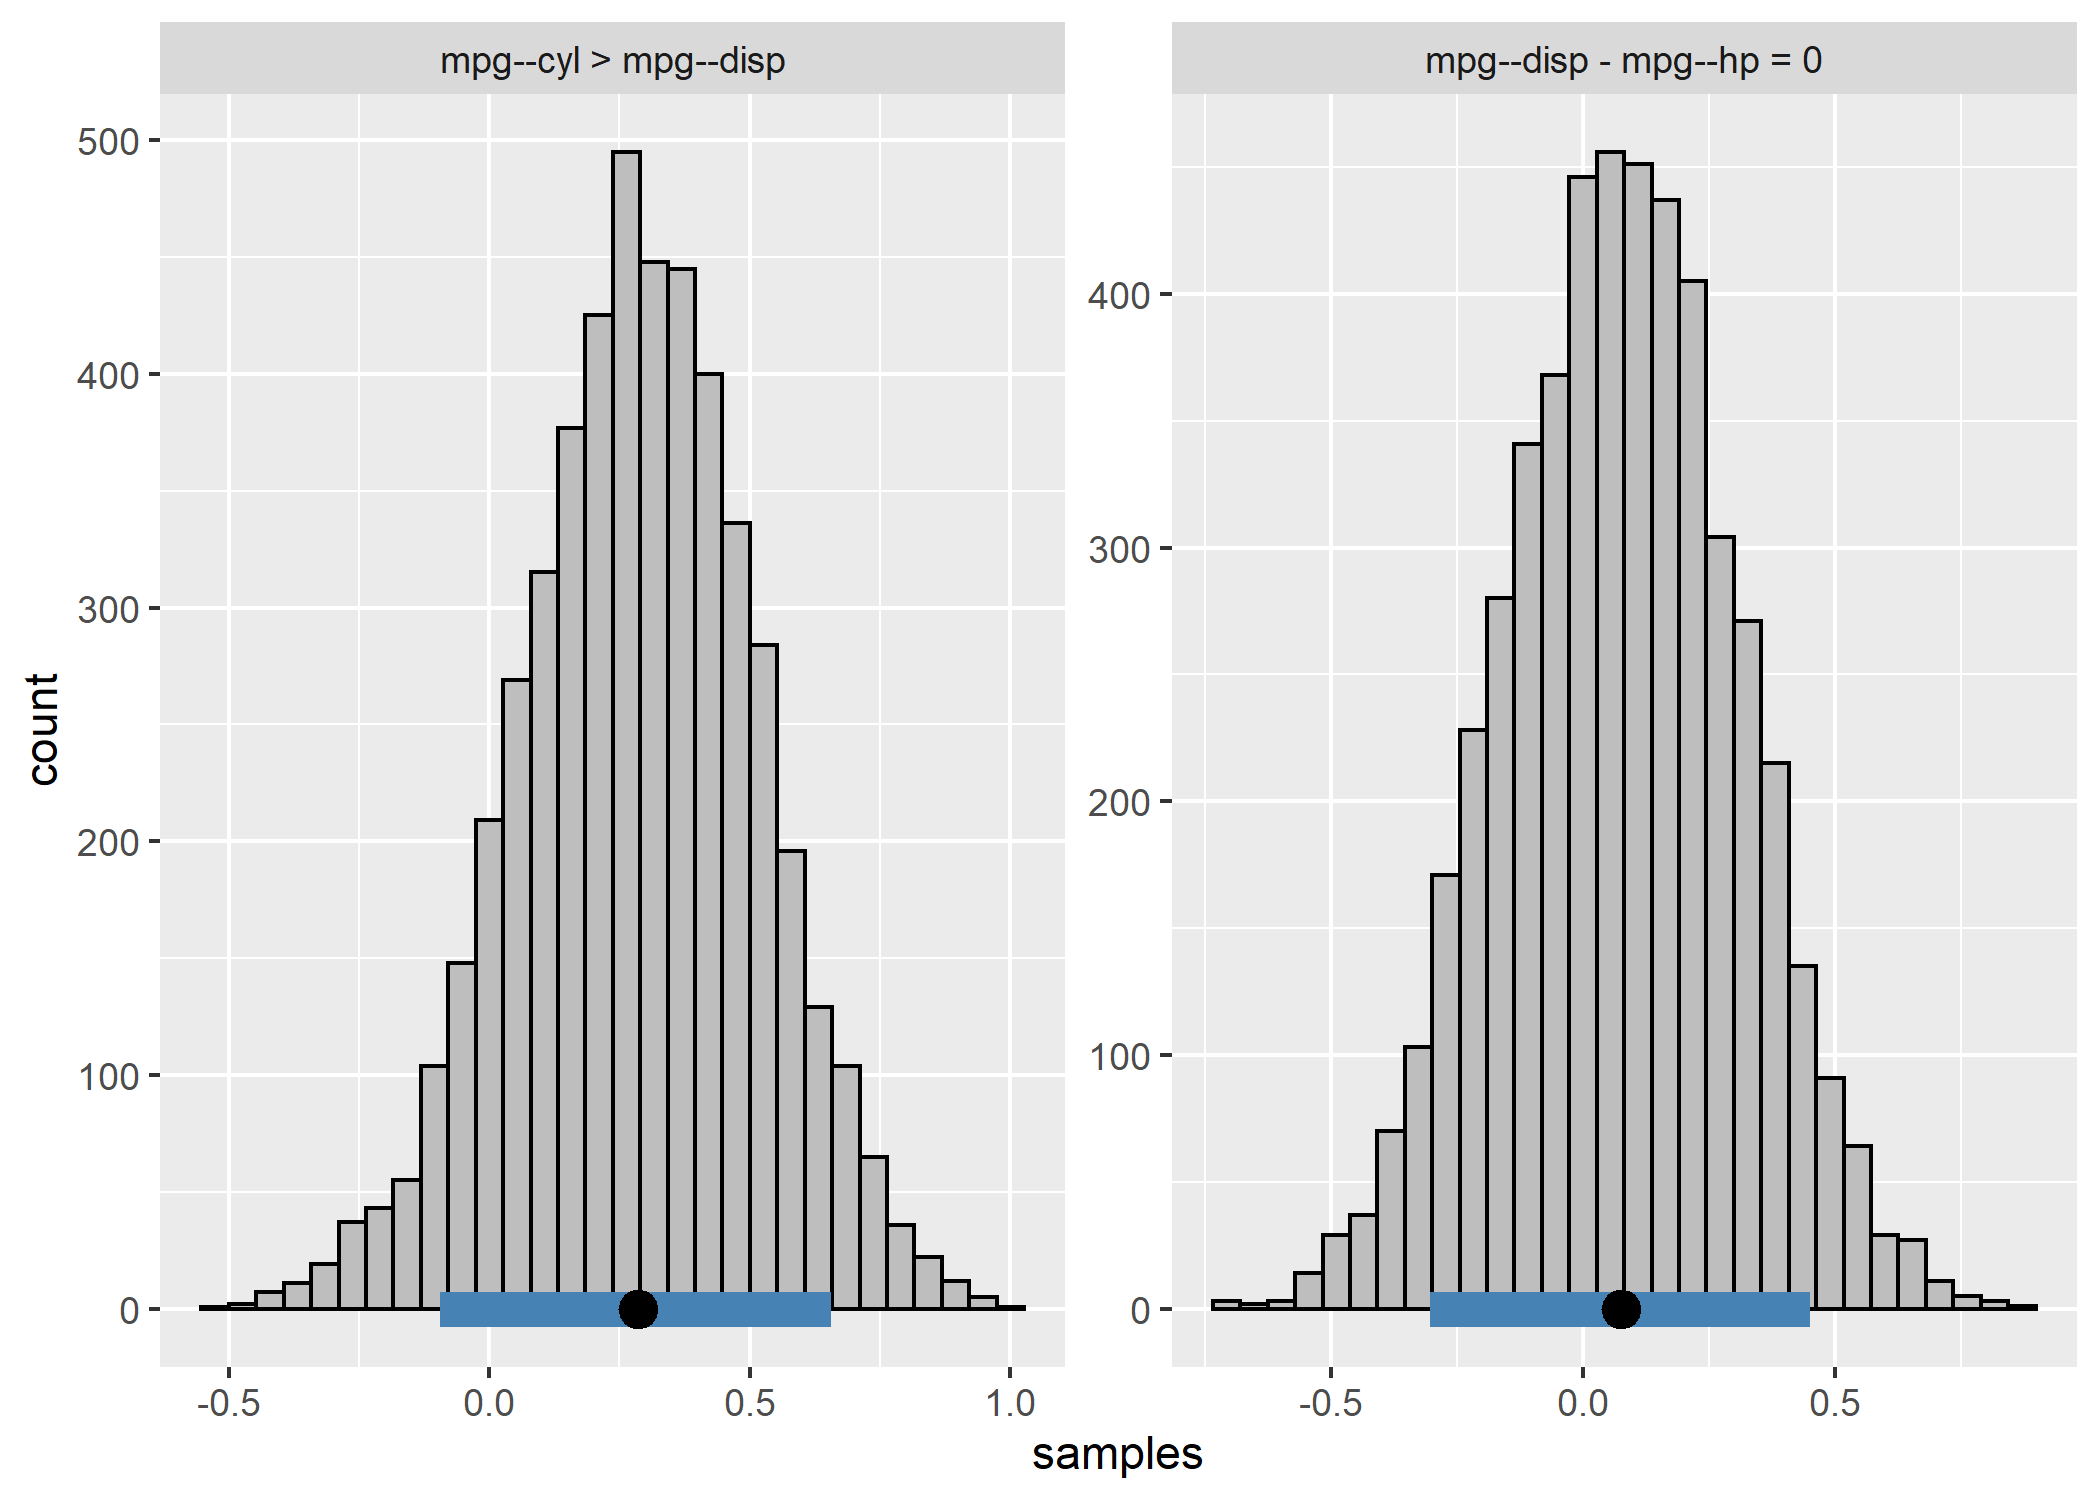
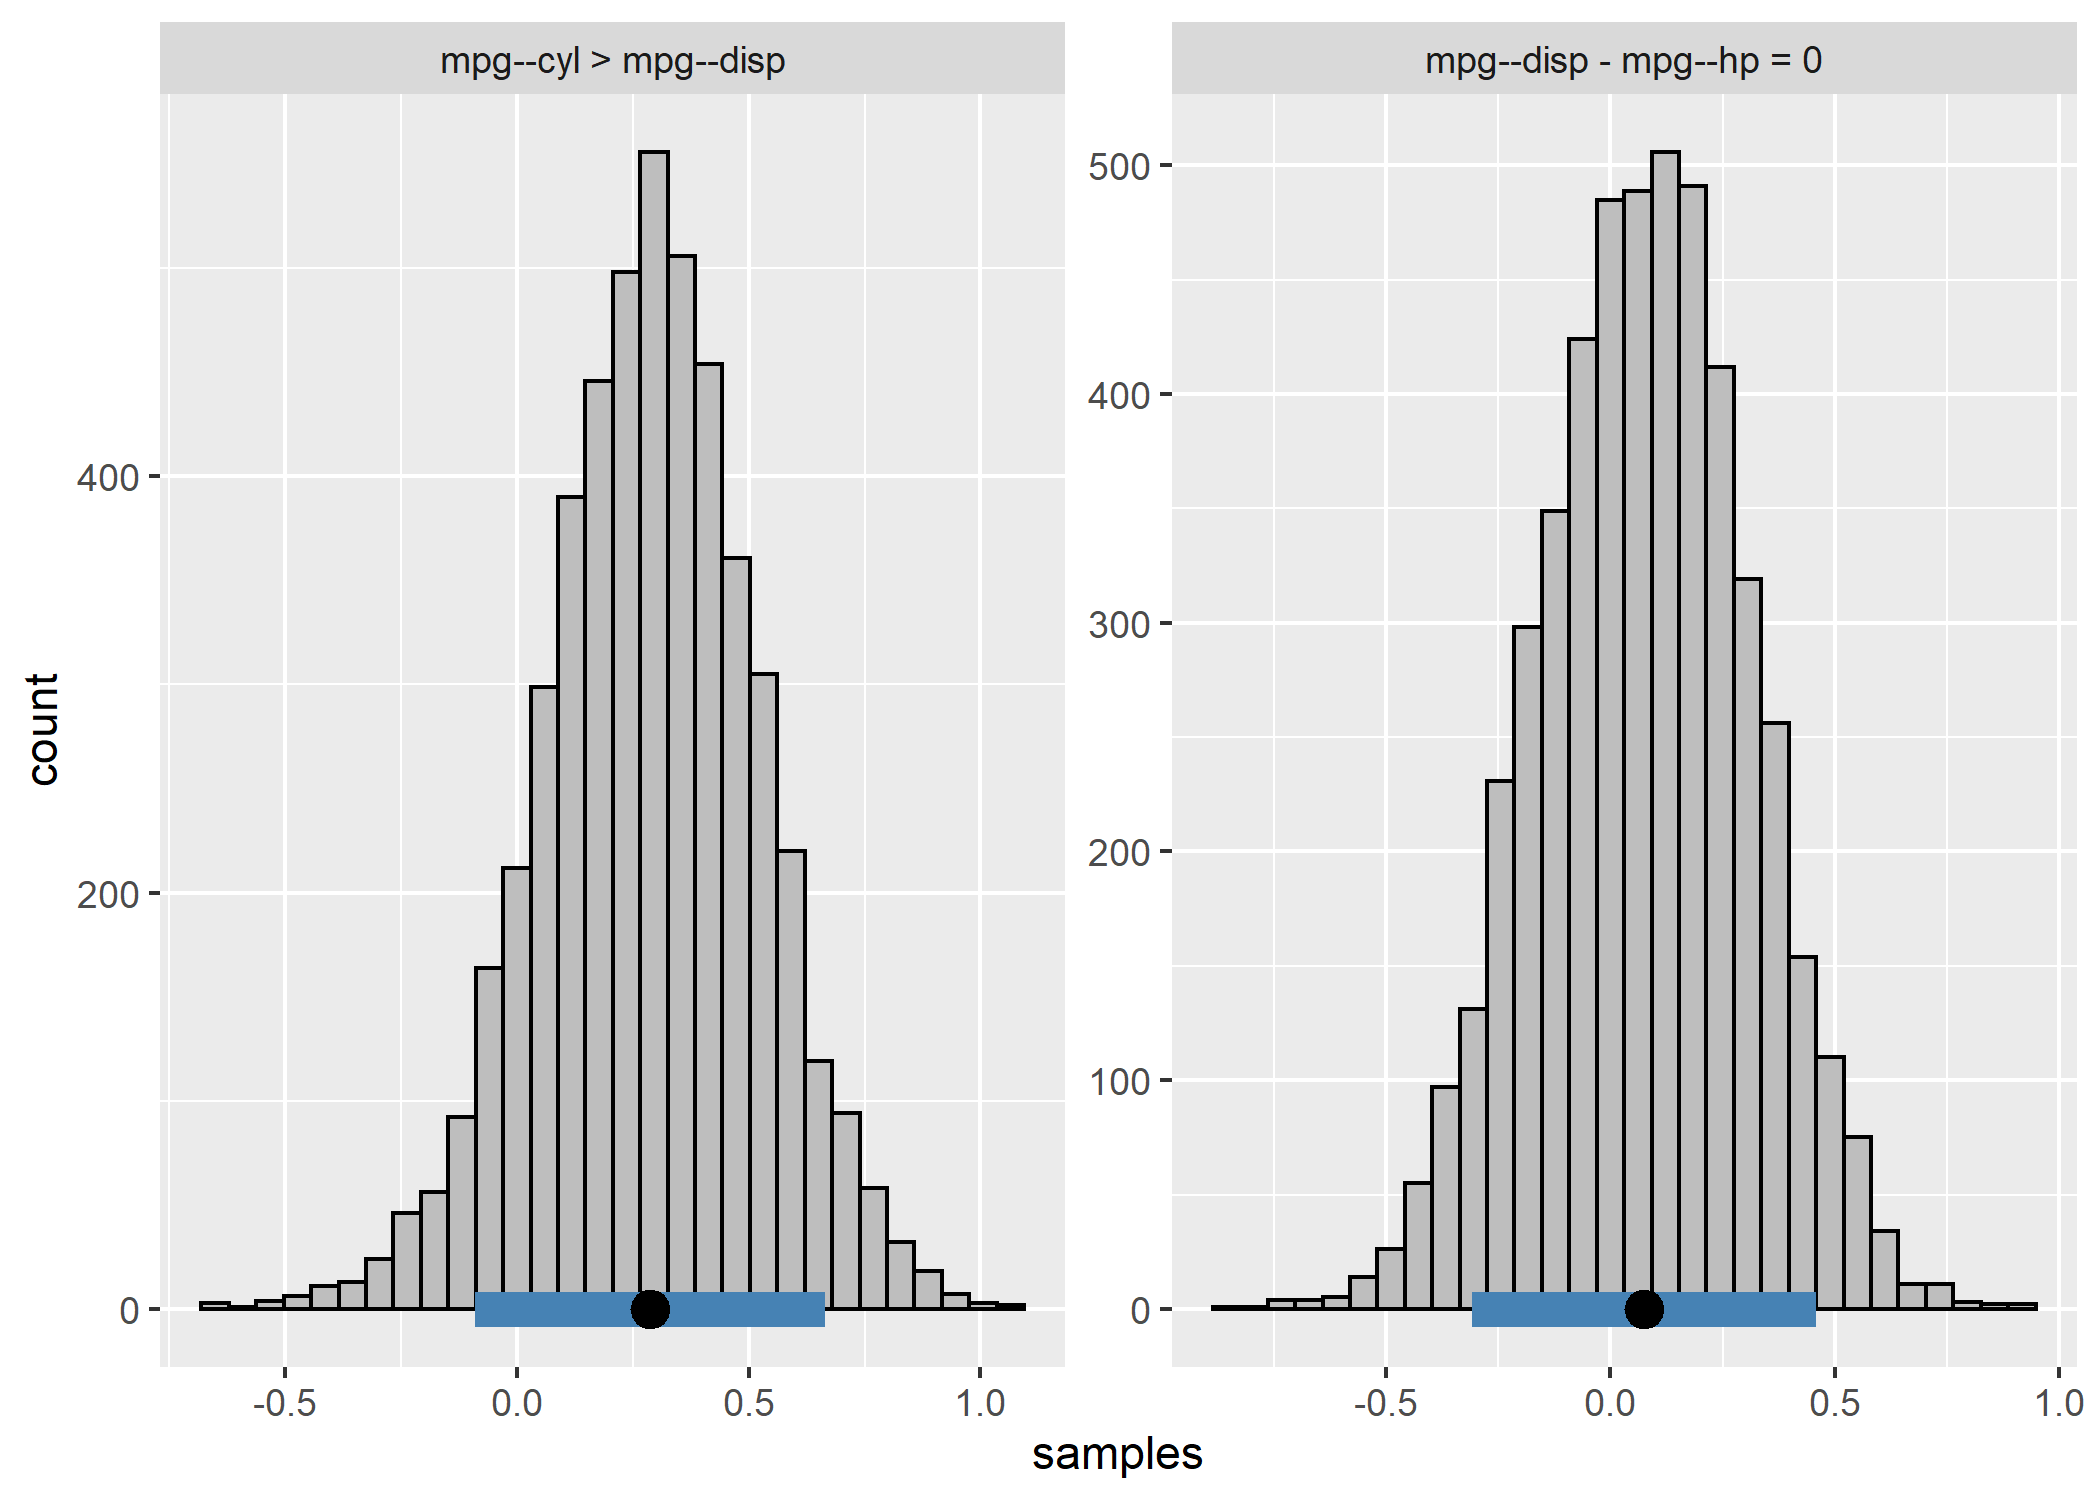
update  for consistency

diff --git a/README.md b/README.md
@@ -61,11 +61,11 @@ bb_sample <- bbcor(Y, method = "spearman")
 # correlation matrix
 bb_sample$cor_mean
 #>            [,1]       [,2]       [,3]       [,4]       [,5]
-#> [1,]  1.0000000 -0.9109175 -0.9072289 -0.8939913  0.6487229
-#> [2,] -0.9109175  1.0000000  0.9289528  0.9018640 -0.6782076
-#> [3,] -0.9072289  0.9289528  1.0000000  0.8506727 -0.6816416
-#> [4,] -0.8939913  0.9018640  0.8506727  1.0000000 -0.5216490
-#> [5,]  0.6487229 -0.6782076 -0.6816416 -0.5216490  1.0000000
+#> [1,]  1.0000000 -0.9109799 -0.9075143 -0.8941014  0.6481496
+#> [2,] -0.9109799  1.0000000  0.9286133  0.9020475 -0.6772422
+#> [3,] -0.9075143  0.9286133  1.0000000  0.8502156 -0.6819241
+#> [4,] -0.8941014  0.9020475  0.8502156  1.0000000 -0.5214303
+#> [5,]  0.6481496 -0.6772422 -0.6819241 -0.5214303  1.0000000
 ```
 
 ## Example: Partial Correlations
@@ -80,11 +80,11 @@ pcors <- cor_2_pcor(bb_sample)
 # partial correlation matrix
 pcors$pcor_mean
 #>             [,1]        [,2]        [,3]        [,4]       [,5]
-#> [1,]  1.00000000 -0.09543648 -0.38062398 -0.45503394  0.1848963
-#> [2,] -0.09543648  1.00000000  0.47180153  0.49474761 -0.3010417
-#> [3,] -0.38062398  0.47180153  1.00000000 -0.04519412 -0.1383608
-#> [4,] -0.45503394  0.49474761 -0.04519412  1.00000000  0.3502683
-#> [5,]  0.18489630 -0.30104166 -0.13836078  0.35026827  1.0000000
+#> [1,]  1.00000000 -0.09513617 -0.38203255 -0.45602871  0.1836012
+#> [2,] -0.09513617  1.00000000  0.47056971  0.49574370 -0.2996516
+#> [3,] -0.38203255  0.47056971  1.00000000 -0.04758713 -0.1408058
+#> [4,] -0.45602871  0.49574370 -0.04758713  1.00000000  0.3491303
+#> [5,]  0.18360116 -0.29965155 -0.14080580  0.34913030  1.0000000
 ```
 
 Note that the objects `bb_sample` and `pcors` include a 3D array with
@@ -100,16 +100,16 @@ post_summary <- posterior_samples(pcors, summary = TRUE, cred = 0.95)
 # print
 post_summary
 #>      Relation Post.mean Post.sd Cred.lb Cred.ub
-#> 1    mpg--cyl   -0.0954  0.1666 -0.4003  0.2433
-#> 2   mpg--disp   -0.3806  0.1587 -0.6605 -0.0505
-#> 3   cyl--disp    0.4718  0.1381  0.1740  0.7025
-#> 4     mpg--hp   -0.4550  0.1284 -0.6795 -0.1817
-#> 5     cyl--hp    0.4947  0.1185  0.2459  0.7086
-#> 6    disp--hp   -0.0452  0.1412 -0.3210  0.2333
-#> 7   mpg--drat    0.1849  0.1796 -0.1888  0.5103
-#> 8   cyl--drat   -0.3010  0.1445 -0.5564 -0.0060
-#> 9  disp--drat   -0.1384  0.1444 -0.4139  0.1503
-#> 10   hp--drat    0.3503  0.1910 -0.0563  0.6796
+#> 1    mpg--cyl   -0.0951  0.1679 -0.3974  0.2458
+#> 2   mpg--disp   -0.3820  0.1617 -0.6706 -0.0422
+#> 3   cyl--disp    0.4706  0.1375  0.1772  0.7069
+#> 4     mpg--hp   -0.4560  0.1278 -0.6788 -0.1858
+#> 5     cyl--hp    0.4957  0.1192  0.2504  0.7098
+#> 6    disp--hp   -0.0476  0.1418 -0.3243  0.2345
+#> 7   mpg--drat    0.1836  0.1834 -0.1908  0.5175
+#> 8   cyl--drat   -0.2997  0.1442 -0.5630  0.0019
+#> 9  disp--drat   -0.1408  0.1442 -0.4165  0.1509
+#> 10   hp--drat    0.3491  0.1897 -0.0421  0.6815
 ```
 
 Note that setting `summary = FALSE` returns the posterior samples in a
@@ -125,7 +125,7 @@ comparisons <- c("mpg--cyl > mpg--disp",
                  "mpg--disp - mpg--hp = 0")
 post_comparisons <- compare(comparisons,
                             obj = pcors,
-                            ci = 0.9)
+                            cred = 0.9)
 
 post_comparisons
 #> bayeslincom: Linear Combinations of Posterior Samples
@@ -141,8 +141,8 @@ post_comparisons
 #> Posterior Summary:
 #> 
 #>    Post.mean Post.sd Cred.lb Cred.ub Pr.less Pr.greater
-#> C1      0.29    0.23   -0.09    0.66    0.11       0.89
-#> C2      0.07    0.23   -0.30    0.45    0.37       0.63
+#> C1      0.29    0.23   -0.09    0.66    0.10       0.90
+#> C2      0.07    0.23   -0.31    0.46    0.38       0.62
 #> ------ 
 #> Note:
 #> Pr.less: Posterior probability less than zero
@@ -165,7 +165,7 @@ contrast_mat <- matrix(c(1, -1, 0,
 post_comparisons <- compare(c("mpg--cyl", "mpg--disp", "mpg--hp"),
                             obj = pcors,
                             contrast = contrast_mat,
-                            ci = 0.9)
+                            cred = 0.9)
 
 post_comparisons
 #> bayeslincom: Linear Combinations of Posterior Samples
@@ -181,8 +181,8 @@ post_comparisons
 #> Posterior Summary:
 #> 
 #>    Post.mean Post.sd Cred.lb Cred.ub Pr.less Pr.greater
-#> C1      0.29    0.23   -0.09    0.66    0.11       0.89
-#> C2      0.07    0.23   -0.30    0.45    0.37       0.63
+#> C1      0.29    0.23   -0.09    0.66    0.10       0.90
+#> C2      0.07    0.23   -0.31    0.46    0.38       0.62
 #> ------ 
 #> Note:
 #> Pr.less: Posterior probability less than zero
